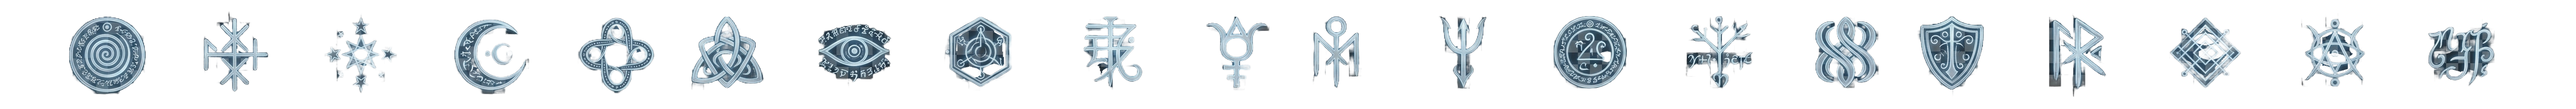
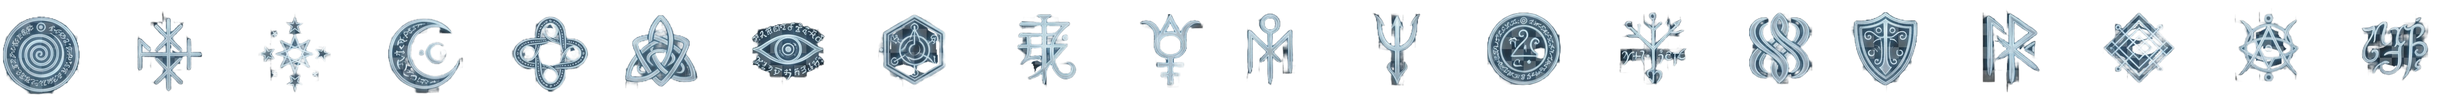
fix visualize

Changed region(s): [[0.0, 0.1515, 0.5294, 0.9091], [0.5606, 0.1212, 0.9966, 0.8182]]

diff --git a/Assets/_SinglePlayer_Resources/Flock/FlockRadiusVisualizer.cs b/Assets/_SinglePlayer_Resources/Flock/FlockRadiusVisualizer.cs
@@ -22,8 +22,9 @@ public class FlockRadiusVisualizer : MonoBehaviour
     void Awake()
     {
         runeLineRenderer = GetComponent<LineRenderer>();
-        runeLineRenderer.positionCount = segments + 1;
+        runeLineRenderer.positionCount = segments; // Đã sửa: bỏ "+ 1"
         runeLineRenderer.useWorldSpace = true;
+        runeLineRenderer.loop = true; // Đã thêm: Bật vòng lặp khép kín xóa vết gợn
         
         if (runeLineRenderer.material != null)
         {
@@ -33,8 +34,9 @@ public class FlockRadiusVisualizer : MonoBehaviour
         // Tự động cấu hình cho Line nền nếu có
         if (backgroundLineRenderer != null)
         {
-            backgroundLineRenderer.positionCount = segments + 1;
+            backgroundLineRenderer.positionCount = segments; // Đã sửa: bỏ "+ 1"
             backgroundLineRenderer.useWorldSpace = true;
+            backgroundLineRenderer.loop = true; // Đã thêm: Bật vòng lặp khép kín
         }
     }
 
@@ -68,19 +70,30 @@ public class FlockRadiusVisualizer : MonoBehaviour
         float deltaTheta = (2f * Mathf.PI) / segments;
         float theta = 0f;
 
-        for (int i = 0; i < segments + 1; i++)
+        // HIỆU CHỈNH ĐỘ DÀY: Trừ đi một nửa chiều rộng (startWidth) của LineRenderer
+        // Giúp mép ngoài cùng co lại, nằm ĐÚNG vào bán kính Logic
+        float adjustedRuneRadius = radius - (runeLineRenderer.startWidth / 2f);
+        
+        float adjustedBgRadius = radius;
+        if (backgroundLineRenderer != null)
         {
-            float x = radius * Mathf.Cos(theta);
-            float y = radius * Mathf.Sin(theta);
-            
-            // 1. Vòng chữ nằm ở Z = 0.1f
-            Vector3 runePos = new Vector3(x, y, 0.1f) + (Vector3)center; 
+            adjustedBgRadius = radius - (backgroundLineRenderer.startWidth / 2f);
+        }
+
+        for (int i = 0; i < segments; i++) // Đã sửa: chạy đến < segments
+        {
+            // 1. Tính toán cho Vòng chữ cổ tự
+            float xRune = adjustedRuneRadius * Mathf.Cos(theta);
+            float yRune = adjustedRuneRadius * Mathf.Sin(theta);
+            Vector3 runePos = new Vector3(xRune, yRune, 0.1f) + (Vector3)center; 
             runeLineRenderer.SetPosition(i, runePos);
 
-            // 2. Vòng nền nằm ở Z = 0.12f (Hơi lùi về sau một chút để nằm DƯỚI chữ)
+            // 2. Tính toán cho Vòng nền (nếu có)
             if (backgroundLineRenderer != null)
             {
-                Vector3 bgPos = new Vector3(x, y, 0.12f) + (Vector3)center;
+                float xBg = adjustedBgRadius * Mathf.Cos(theta);
+                float yBg = adjustedBgRadius * Mathf.Sin(theta);
+                Vector3 bgPos = new Vector3(xBg, yBg, 0.12f) + (Vector3)center;
                 backgroundLineRenderer.SetPosition(i, bgPos);
             }
 
